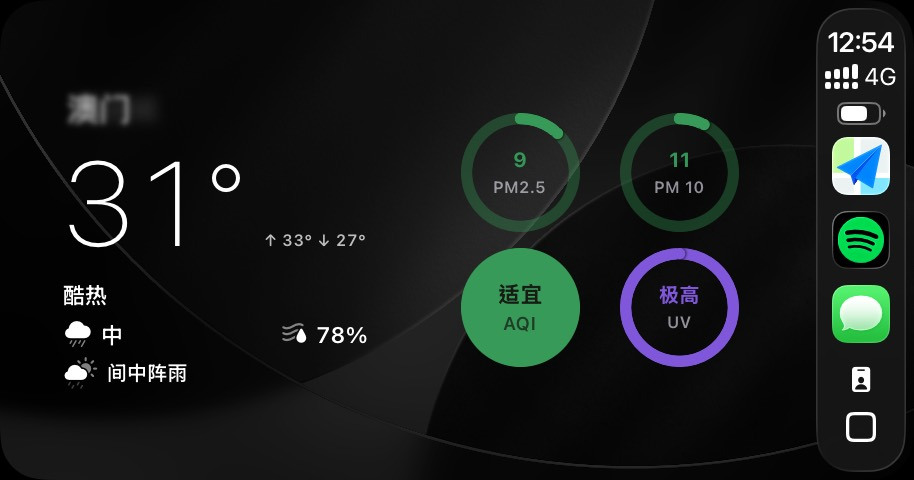
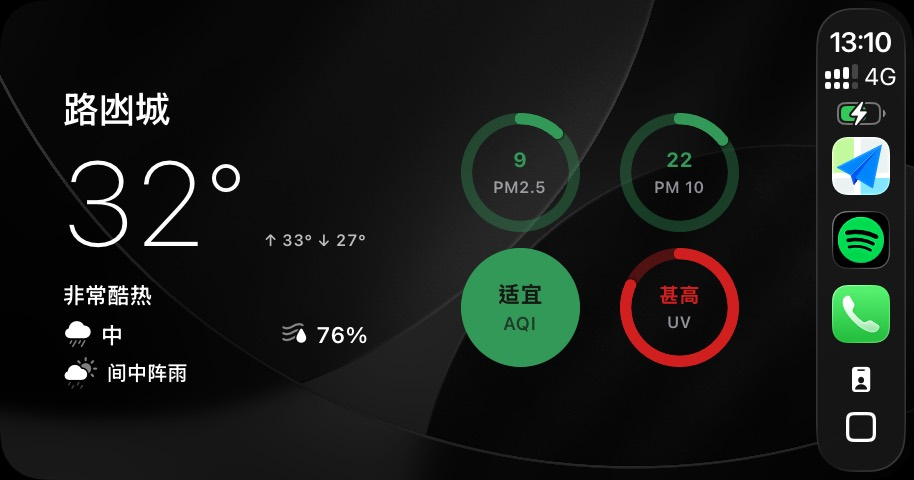
update

diff --git a/styles.css b/styles.css
@@ -200,9 +200,12 @@ h1 {
 
 .screenshot-card {
   margin: 0;
+  width: 100%;
+  min-width: 0;
   border: 1px solid var(--line);
   border-radius: 30px;
   padding: 12px;
+  overflow: hidden;
   background: var(--panel);
   box-shadow: var(--shadow);
   backdrop-filter: blur(28px) saturate(1.2);
@@ -211,8 +214,8 @@ h1 {
 .screenshot-card img {
   display: block;
   width: 100%;
-  aspect-ratio: 1290 / 2796;
-  object-fit: cover;
+  max-width: 100%;
+  height: auto;
   border-radius: 22px;
   background: color-mix(in srgb, var(--ink) 8%, transparent);
 }
@@ -223,6 +226,7 @@ h1 {
 
 .screenshot-card.wide img {
   aspect-ratio: 912 / 465;
+  object-fit: cover;
 }
 
 .screenshot-card figcaption {
